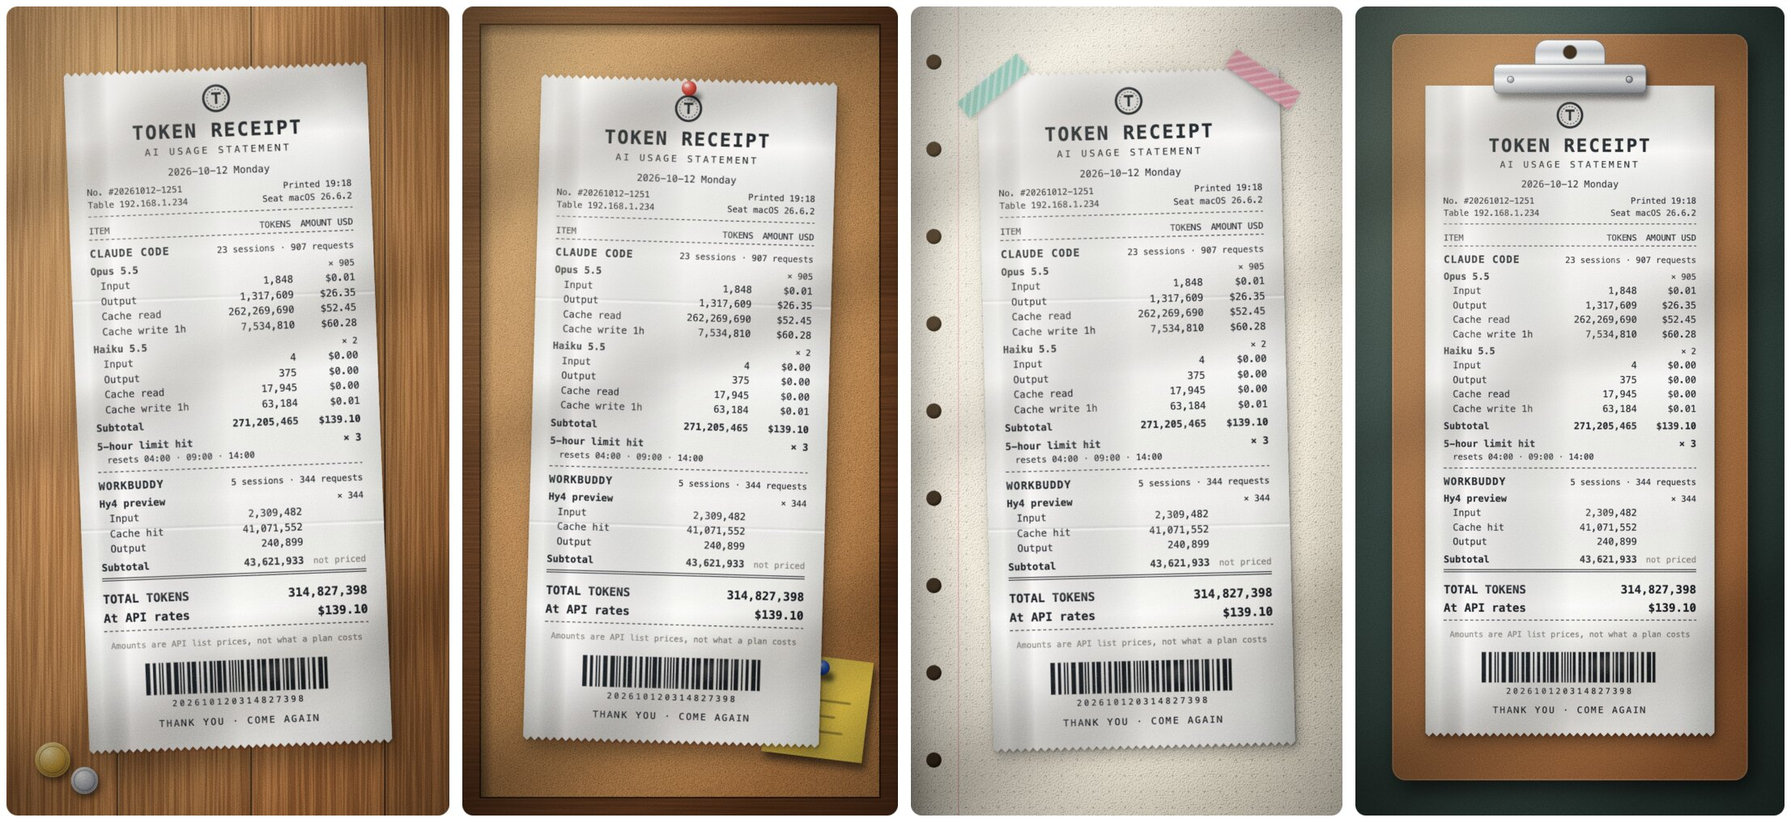
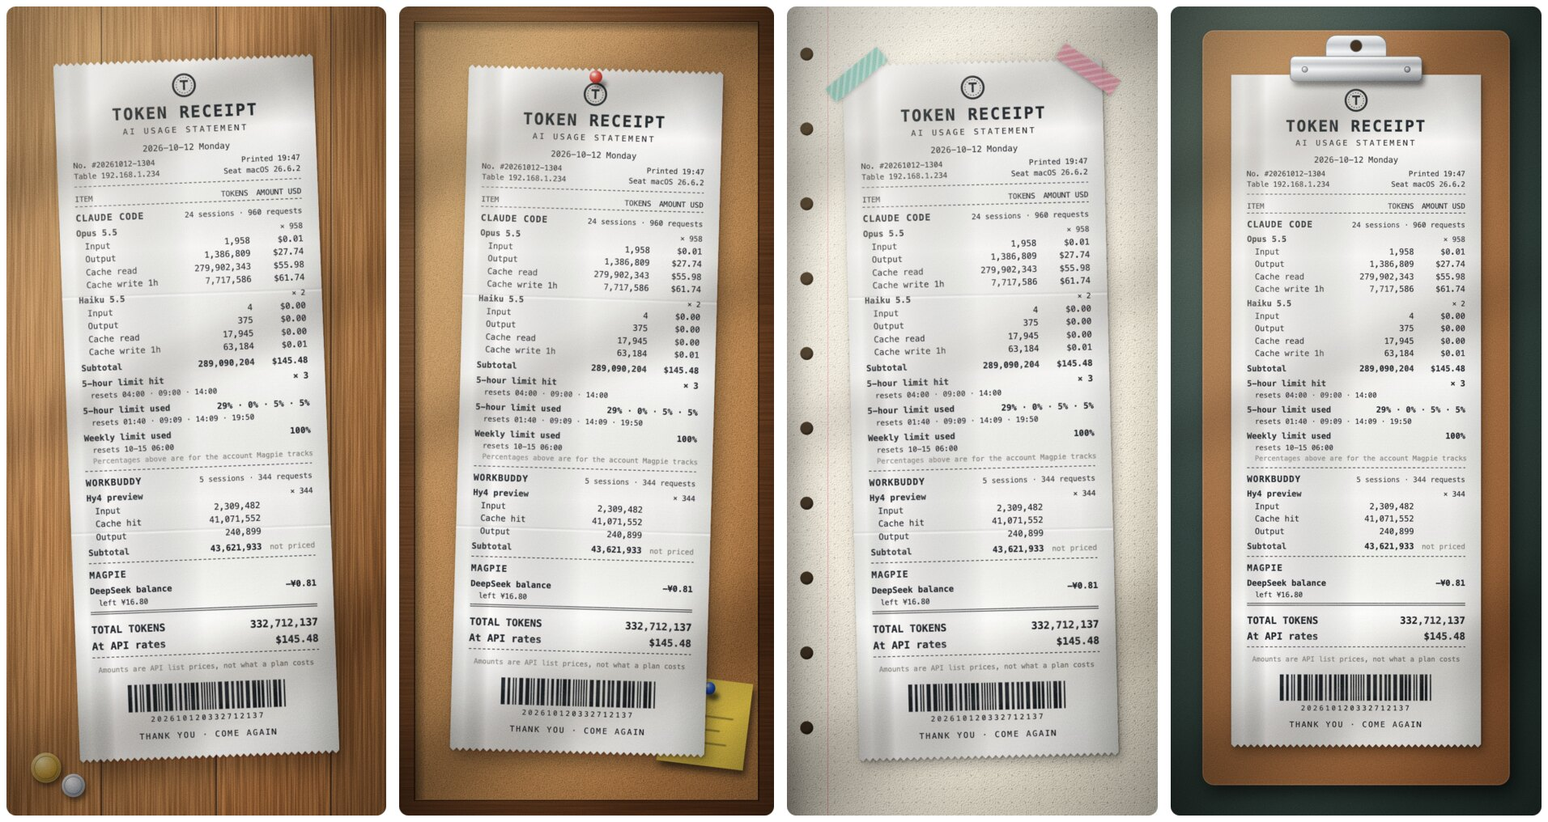
1.3.0：接入 Magpie 记录的额度百分比、账户余额变化和网关请求 MAT-268

diff --git a/main.js b/main.js
@@ -5,6 +5,8 @@
 //                    同一条回复会写成好几行，按 message.id + requestId 去重
 //     · Codex：~/.codex/sessions（和同级的 archived_sessions）下的 rollout-*.jsonl，取 token_count 事件里的累计值，逐条相减
 //     · WorkBuddy：~/.workbuddy/projects 下的 *.jsonl，取每次请求的 providerData.rawUsage
+//     · Magpie（可选）：~/.config/magpie 下的 usage.jsonl（经它网关转发的请求，已经直接读的三家跳过）、
+//                    quota-history.json（各家额度的剩余百分比）、balance-history.json（账户余额），有就加上，没有就不加
 //   金额：Claude 和 Codex 按 API 标价折算（订阅用户并非实付），价目表在设置里可改；WorkBuddy 只列 token
 //   额度：Claude 的会话记录里有「额度用满」的提示和重置时间，Codex 的记录里有额度已用百分比，都印在各自那一栏
 //   桌号 / 餐位：小票上印本机的局域网 IP 和系统版本（从系统直接读，不联网），设置里可以关
@@ -47,6 +49,7 @@ const DEFAULT_SETTINGS = {
 	claudeDir: "~/.claude/projects",
 	codexDir: "~/.codex/sessions",
 	workbuddyDir: "~/.workbuddy/projects",
+	magpieDir: "~/.config/magpie",
 	title: "",
 	language: "auto",
 	scene: "printer",
@@ -71,7 +74,9 @@ const I18N = {
 		limits: { five_hour: "5 小时额度用满", seven_day: "周额度用满", other: "额度用满" },
 		resets: "重置",
 		total: "合计 TOKEN", apiAt: "API 折算", table: "桌号", seat: "餐位",
-		window: (min) => (min === 300 ? "5 小时额度" : min === 10080 ? "周额度" : min === 43200 ? "月额度" : `${Math.round(min / 1440)} 天额度`) + "已用",
+		window: (min, name) => (min === 300 ? "5 小时额度" : min === 10080 ? "周额度" : min === 43200 ? "月额度" : min ? `${Math.round(min / 1440)} 天额度` : `${name || "额度"} `) + "已用",
+		viaMagpie: "以上百分比是 Magpie 盯的那个账号的", balance: "余额", left: "还剩",
+		sMagpie: ["Magpie 目录", "Magpie 的配置目录。有的话，小票会加上它记的额度百分比、账户余额变化和经它网关转发的请求；目录不存在就什么都不加。"],
 		scenes: { printer: "打印机出纸", desk: "木桌", cork: "软木板", tape: "手账胶带", clip: "账单夹板", plain: "纯净" },
 		saveSvg: "存成动画 SVG 放进库里", replay: "重放入场动效", zoom: "点一下放大看（会存成图片，用图片查看器打开）",
 		note: "金额按 API 标价折算，订阅用户并非实付",
@@ -107,7 +112,9 @@ const I18N = {
 		limits: { five_hour: "5-hour limit hit", seven_day: "Weekly limit hit", other: "Usage limit hit" },
 		resets: "resets",
 		total: "TOTAL TOKENS", apiAt: "At API rates", table: "Table", seat: "Seat",
-		window: (min) => (min === 300 ? "5-hour limit" : min === 10080 ? "Weekly limit" : min === 43200 ? "Monthly limit" : `${Math.round(min / 1440)}-day limit`) + " used",
+		window: (min, name) => (min === 300 ? "5-hour limit" : min === 10080 ? "Weekly limit" : min === 43200 ? "Monthly limit" : min ? `${Math.round(min / 1440)}-day limit` : name || "Limit") + " used",
+		viaMagpie: "Percentages above are for the account Magpie tracks", balance: "balance", left: "left",
+		sMagpie: ["Magpie folder", "Magpie's config folder. When it exists, the receipt adds the limit percentages, balance changes and gateway requests Magpie has recorded. Nothing is added when the folder is missing."],
 		scenes: { printer: "Thermal printer", desk: "Wooden desk", cork: "Cork board", tape: "Notebook and tape", clip: "Clipboard", plain: "Plain" },
 		saveSvg: "Save as animated SVG in the vault", replay: "Replay the entrance", zoom: "Click to enlarge (saves the image and opens it in the image viewer)",
 		note: "Amounts are API list prices, not what a plan costs",
@@ -281,6 +288,89 @@ function codexParser() {
 	};
 }
 
+// Magpie 网关转发的请求。Claude Code、Codex、WorkBuddy 自己的记录已经直接读了，这三家走网关的请求跳过，免得算两遍
+const MAGPIE_DIRECT = new Set(["claude", "claude-code", "codex", "workbuddy", "codebuddy"]);
+
+function parseMagpieLine(line) {
+	let d;
+	try { d = JSON.parse(line); } catch (e) { return null; }
+	if (!d || !d.t || MAGPIE_DIRECT.has(d.agent) || d.status >= 400) return null;
+	const t = Date.parse(d.t);
+	if (!t) return null;
+	return {
+		t,
+		key: d.route_id ? "magpie|" + d.route_id : null,
+		sid: d.session || d.agent || "",
+		model: d.served || d.model || "unknown",
+		in: d.in || 0,
+		read: d.cache_read || 0,
+		out: d.out || 0,
+	};
+}
+
+async function readJson(file) {
+	try { return JSON.parse(await fs.promises.readFile(file, "utf8")); } catch (e) { return null; }
+}
+
+// Magpie 隔一阵记一次各家额度还剩百分之几、账户余额还有多少。取这一天里的采样：
+//   额度：同一个窗口（重置时间相同，差几分钟也算同一个）只留最后一次采样
+//   余额：把这一天里每次减少的量加起来，充值不算
+async function magpieExtras(dir, date) {
+	const start = date.getTime(), end = start + DAY;
+	const out = { quota: {}, balances: [] };
+	if (!dir) return out;
+	const [hist, bal, now] = await Promise.all(["quota-history.json", "balance-history.json", "quotas.json"].map((f) => readJson(path.join(dir, f))));
+	const names = {}, symbols = {};
+	for (const [k, v] of Object.entries(now || {})) {
+		const p = k.split("/")[0], q = (v && v.quota) || {};
+		if (q.name) names[p] = q.name;
+		const m = typeof q.balance === "string" && q.balance.match(/^[^\d-]+/);
+		if (m) symbols[p] = m[0].trim();
+	}
+	for (const [k, wins] of Object.entries(hist || {})) {
+		const p = k.split("|")[0];
+		for (const [name, samples] of Object.entries(wins || {})) {
+			const inst = new Map();
+			let first = null, last = null;
+			for (const s of samples || []) {
+				const at = Date.parse(s.at);
+				if (!(at >= start && at < end) || typeof s.left !== "number") continue;
+				if (first == null) first = s.left;
+				last = s.left;
+				const r = s.resetsAt ? Date.parse(s.resetsAt) : 0;
+				inst.set(r ? Math.round(r / 600000) : 0, { at, used: 100 - s.left, resetsAt: r });
+			}
+			// 没有重置时间的采样是「这个窗口还没开始」，有别的窗口时不用它
+			if (inst.size > 1) inst.delete(0);
+			if (!inst.size) continue;
+			const m = name.match(/^(\d+)\s*(hour|day)/i);
+			(out.quota[p] = out.quota[p] || []).push({
+				minutes: m ? Number(m[1]) * (m[2].toLowerCase() === "hour" ? 60 : 1440) : 0,
+				name,
+				provider: names[p] || p,
+				list: [...inst.values()].sort((a, b) => a.at - b.at),
+				changed: first !== last,
+				magpie: true,
+			});
+		}
+	}
+	for (const [k, samples] of Object.entries(bal || {})) {
+		const p = k.split("|")[0];
+		let prev = null, spent = 0, left = null;
+		for (const s of samples || []) {
+			const at = Date.parse(s.at);
+			if (!(at < end) || typeof s.amount !== "number") continue;
+			if (at >= start) {
+				if (prev != null && s.amount < prev) spent += prev - s.amount;
+				left = s.amount;
+			}
+			prev = s.amount;
+		}
+		if (spent > 0.004) out.balances.push({ name: names[p] || p, symbol: symbols[p] || "", spent, left });
+	}
+	return out;
+}
+
 // 按文件的修改时间和大小缓存解析结果；某一天的账只可能在「那天 0 点之后还改过」的文件里
 class Ledger {
 	constructor() {
@@ -292,21 +382,34 @@ class Ledger {
 		for (const dir of dirs) await walk(expand(dir), all);
 		const out = [];
 		for (const f of all) {
-			if (f.mtimeMs < since) continue;
-			let c = this.cache.get(f.file);
-			if (!c || c.mtimeMs !== f.mtimeMs || c.size !== f.size) {
-				const rows = [];
-				const parse = makeParser();
-				await eachLine(f.file, (line) => {
-					const r = parse(line);
-					if (r) rows.push(r);
-				});
-				c = { mtimeMs: f.mtimeMs, size: f.size, rows };
-				this.cache.set(f.file, c);
-			}
-			out.push(c.rows);
+			if (f.mtimeMs >= since) out.push(await this.parse(f, makeParser));
 		}
 		return out;
+	}
+
+	async parse(f, makeParser) {
+		let c = this.cache.get(f.file);
+		if (!c || c.mtimeMs !== f.mtimeMs || c.size !== f.size) {
+			const rows = [];
+			const parse = makeParser();
+			await eachLine(f.file, (line) => {
+				const r = parse(line);
+				if (r) rows.push(r);
+			});
+			c = { mtimeMs: f.mtimeMs, size: f.size, rows };
+			this.cache.set(f.file, c);
+		}
+		return c.rows;
+	}
+
+	// 单独一个文件（Magpie 的 usage.jsonl），不存在就当没有
+	async file(file, makeParser) {
+		try {
+			const st = await fs.promises.stat(file);
+			return [await this.parse({ file, mtimeMs: st.mtimeMs, size: st.size }, makeParser)];
+		} catch (e) {
+			return [];
+		}
 	}
 
 	async day(date, settings) {
@@ -315,12 +418,15 @@ class Ledger {
 		const codexDirs = [settings.codexDir];
 		const cd = expand(settings.codexDir).replace(/\/+$/, "");
 		if (path.basename(cd) === "sessions") codexDirs.push(path.join(path.dirname(cd), "archived_sessions"));
-		const [claude, codex, wb] = await Promise.all([
+		const mdir = settings.magpieDir ? expand(settings.magpieDir) : "";
+		const [claude, codex, wb, magpie, extras] = await Promise.all([
 			this.rows([settings.claudeDir], () => parseClaudeLine, start),
 			this.rows(codexDirs, codexParser, start),
 			this.rows([settings.workbuddyDir], () => parseWorkBuddyLine, start),
+			mdir ? this.file(path.join(mdir, "usage.jsonl"), () => parseMagpieLine) : [],
+			magpieExtras(mdir, date),
 		]);
-		return summarize(date, { claude, codex, wb }, settings.prices);
+		return summarize(date, { claude, codex, wb, magpie }, settings.prices, extras);
 	}
 }
 
@@ -365,10 +471,11 @@ const LINE_ORDER = {
 	claude: ["input", "output", "read", "write5", "write1h"],
 	codex: ["input", "read", "output"],
 	wb: ["input", "hit", "output"],
+	magpie: ["input", "read", "output"],
 };
 
 function newSection(id, name, priced) {
-	return { id, name, priced, models: new Map(), sids: new Set(), limits: [], quota: [], sessions: 0, requests: 0, tokens: 0, cost: 0, unpriced: false };
+	return { id, name, priced, models: new Map(), sids: new Set(), limits: [], quota: [], extras: [], sessions: 0, requests: 0, tokens: 0, cost: 0, unpriced: false };
 }
 
 // parts：[明细的名字, token 数, 每个 token 多少美元]
@@ -403,11 +510,11 @@ function finish(sec) {
 	sec.models = models;
 	sec.sessions = sec.sids.size;
 	delete sec.sids;
-	sec.shown = models.length > 0 || sec.limits.length > 0 || sec.quota.length > 0;
+	sec.shown = models.length > 0 || sec.limits.length > 0 || sec.quota.length > 0 || sec.extras.length > 0;
 	return sec;
 }
 
-function summarize(date, files, prices) {
+function summarize(date, files, prices, magpie) {
 	const start = date.getTime();
 	const M = 1e6;
 
@@ -450,14 +557,37 @@ function summarize(date, files, prices) {
 			["output", r.out, rate(p && p.out)],
 		]);
 	}
-	if (latest) codex.quota = latest.quota;
+	if (latest) codex.quota = latest.quota.map((q) => ({ minutes: q.minutes, list: [{ used: q.used, resetsAt: q.resetsAt }] }));
 
 	const wb = newSection("wb", "WORKBUDDY", false);
 	for (const r of pick(files.wb || [], start)) {
 		addRow(wb, r, r.name || r.model, false, [["input", r.in, 0], ["hit", r.hit, 0], ["output", r.out, 0]]);
 	}
 
-	const sections = [finish(claude), finish(codex), finish(wb)];
+	const mg = newSection("magpie", "MAGPIE", true);
+	for (const r of pick(files.magpie || [], start)) {
+		const p = priceOf(r.model, prices);
+		const rate = (v) => (p ? v / M : 0);
+		addRow(mg, r, r.model, !!p, [
+			["input", r.in, rate(p && p.in)],
+			["read", r.read, rate(p && (p.read != null ? p.read : p.in * 0.1))],
+			["output", r.out, rate(p && p.out)],
+		]);
+	}
+	// Magpie 记的额度：有自己那一栏的（当天用过、记录里又没带百分比）印在那一栏；别家的只在当天有变化时印在 Magpie 这一栏
+	const own = { claude, codex, workbuddy: wb, "workbuddy-ai": wb };
+	for (const [p, list] of Object.entries((magpie && magpie.quota) || {})) {
+		const sec = own[p];
+		if (sec) {
+			// 积分这类不按时间重置的额度，当天没变化就不印
+			if (sec.models.size && !sec.quota.length) sec.quota = list.filter((q) => q.minutes || q.changed);
+		} else {
+			for (const q of list) if (q.changed) mg.quota.push(Object.assign({ label: q.provider }, q));
+		}
+	}
+	mg.extras = (magpie && magpie.balances) || [];
+
+	const sections = [finish(claude), finish(codex), finish(wb), finish(mg)];
 	const sum = { date, sections, tokens: 0, cost: 0, requests: 0, unpriced: false };
 	for (const s of sections) {
 		sum.tokens += s.tokens;
@@ -569,7 +699,7 @@ function buildPaper(sum, opt) {
 		if (i) { rule(); y -= 6; }
 		y += LH + 2;
 		text(xL, s.name, { bold: true, size: 13.5, ls: 1 });
-		text(xR, T.sessions(num(s.sessions), num(s.requests)), { anchor: "end", size: 11 });
+		if (s.models.length) text(xR, T.sessions(num(s.sessions), num(s.requests)), { anchor: "end", size: 11 });
 		for (const m of s.models) {
 			y += LH + 3;
 			text(xL, m.label, { bold: true });
@@ -580,7 +710,7 @@ function buildPaper(sum, opt) {
 			y += 4;
 			row(T.subtotal, num(s.tokens), s.priced ? usd(s.cost) : T.unpricedTag, { indent: false, bold: true, amountDim: !s.priced });
 		}
-		// 订阅额度：当天用满了几次（Claude），或者当天最后一次请求时已经用掉百分之几（Codex）
+		// 订阅额度：当天用满了几次（Claude），或者已经用掉百分之几（Codex 的记录里有，别家靠 Magpie 的采样）
 		for (const l of s.limits) {
 			y += 4;
 			row(T.limits[l.type], null, `× ${l.hits.length}`, { indent: false, bold: true });
@@ -592,11 +722,24 @@ function buildPaper(sum, opt) {
 		}
 		for (const q of s.quota) {
 			y += 4;
-			row(T.window(q.minutes), null, `${Math.round(q.used)}%`, { indent: false, bold: true });
-			if (q.resetsAt) {
+			const list = q.list.slice(-4);
+			row((q.label ? q.label + " " : "") + T.window(q.minutes, q.name), null, list.map((x) => `${Math.round(x.used)}%`).join(" · "), { indent: false, bold: true });
+			const at = list.map((x) => (x.resetsAt ? resetLabel(x, sum.date) : "")).filter(Boolean);
+			if (at.length) {
 				y += LH - 2;
-				text(xItem, `${T.resets} ${resetLabel(q, sum.date)}`, { size: 11 });
+				text(xItem, `${T.resets} ${at.join(" · ")}`, { size: 11 });
 			}
+		}
+		if (s.id !== "magpie" && s.quota.some((q) => q.magpie)) {
+			y += LH - 3;
+			text(xItem, T.viaMagpie, { size: 10.5, dim: true });
+		}
+		// 账户余额当天花掉多少
+		for (const e of s.extras) {
+			y += 4;
+			row(`${e.name} ${T.balance}`, null, `-${e.symbol}${e.spent.toFixed(2)}`, { indent: false, bold: true });
+			y += LH - 2;
+			text(xItem, `${T.left} ${e.symbol}${e.left.toFixed(2)}`, { size: 11 });
 		}
 	});
 	rule("double");
@@ -1209,6 +1352,7 @@ class TokenReceiptSettingTab extends PluginSettingTab {
 		textSetting(T.sClaude, "claudeDir", DEFAULT_SETTINGS.claudeDir);
 		textSetting(T.sCodex, "codexDir", DEFAULT_SETTINGS.codexDir);
 		textSetting(T.sWb, "workbuddyDir", DEFAULT_SETTINGS.workbuddyDir);
+		textSetting(T.sMagpie, "magpieDir", DEFAULT_SETTINGS.magpieDir);
 		textSetting(T.sFolder, "exportFolder", T.folderHint);
 
 		new Setting(containerEl).setName(T.sFormat[0]).setDesc(T.sFormat[1]).addDropdown((d) => d
@@ -1243,4 +1387,4 @@ class TokenReceiptSettingTab extends PluginSettingTab {
 }
 
 module.exports = TokenReceiptPlugin;
-module.exports.core = { Ledger, summarize, renderReceipt, parseClaudeLine, parseWorkBuddyLine, codexParser, hostInfo, dayStart, DEFAULT_SETTINGS, SCENE_ORDER };
+module.exports.core = { Ledger, summarize, renderReceipt, parseClaudeLine, parseWorkBuddyLine, codexParser, parseMagpieLine, magpieExtras, hostInfo, dayStart, DEFAULT_SETTINGS, SCENE_ORDER };

diff --git a/README.md b/README.md
@@ -16,6 +16,7 @@ That is the author's own day, as an animated SVG saved straight from the plugin.
 - **Codex**, one block per model: input, cached input and output tokens, with costs for the models in the price table.
 - **WorkBuddy**, one block per model: input, cache hit and output tokens. WorkBuddy has no public per-token price, so this block shows tokens only.
 - **Plan limits.** When Claude Code tells you that you hit your 5-hour or weekly limit, it writes that message and the reset time into the session log; the receipt lists how many times that happened and when each limit resets. Codex logs the share of your limit you have used, so its block shows that percentage as of the last request of the day.
+- **Magpie**, if you use it: the receipt adds what Magpie has recorded. That is the share of your plan limits used through the day, how far an account balance dropped, and the requests that went through its gateway. The percentages are for the account Magpie tracks, which may be only one of the accounts you use.
 - **Table and seat.** The way a restaurant bill carries a table number, the line under the receipt number gives this computer's local network address as the table and its system version as the seat.
 - **Totals**, a barcode that encodes nothing, and a thank-you.
 
@@ -55,13 +56,13 @@ Commands, none with a default hotkey:
 
 - **Receipt title**, **language** (the interface and the receipt follow Obsidian's language: Chinese for Chinese, English otherwise) and **scene**.
 - **Table and seat**, on or off.
-- **Session folders** for Claude Code, Codex and WorkBuddy, if yours are not in the default place.
+- **Session folders** for Claude Code, Codex and WorkBuddy, and the Magpie folder, if yours are not in the default place.
 - **Image format, folder and resolution.** WebP is the default because textured scenes are several megabytes as PNG.
 - **Price table**, as JSON, in US dollars per million tokens. Prices change and new models appear; edit the table to keep up. A model that is not in the table shows tokens without a cost. The Claude prices come from Anthropic's published rates; the OpenAI ones were taken from third-party price listings, so check them against your bill.
 
 ## Privacy and file access
 
-- **Files outside your vault.** The plugin reads, and never writes, the session logs in `~/.claude/projects` (Claude Code), `~/.codex/sessions` and `~/.codex/archived_sessions` (Codex) and `~/.workbuddy/projects` (WorkBuddy). That is the only place the token counts exist, which is why the plugin needs them. It keeps only the token counts, model names, timestamps, session ids and limit information. Your prompts and the replies are never stored, shown or sent anywhere.
+- **Files outside your vault.** The plugin reads, and never writes, the session logs in `~/.claude/projects` (Claude Code), `~/.codex/sessions` and `~/.codex/archived_sessions` (Codex) and `~/.workbuddy/projects` (WorkBuddy). When `~/.config/magpie` exists it also reads four files there: `usage.jsonl`, `quota-history.json`, `balance-history.json` and `quotas.json`. Those are the only places the numbers exist, which is why the plugin needs them. It keeps only the token counts, model names, timestamps, session ids, limit information and balances. Your prompts and the replies are never stored, shown or sent anywhere.
 - **Local address and system version.** The table and seat line shows this computer's local network address (such as 192.168.1.23) and its system version, both read from the operating system. The line appears on every image you save or copy, so turn it off in the settings if you share receipts and would rather leave it out.
 - **No network.** Nothing is sent anywhere. Costs are calculated from the price table in the settings.
 - **Desktop only**, because it reads files through Node.js.
@@ -70,7 +71,8 @@ Commands, none with a default hotkey:
 ## Limits of the numbers
 
 - Only what is in the local logs is counted. Chats on claude.ai and in the Claude desktop app's chat tab are not there, although they draw on the same plan limits.
-- For Claude the receipt can say that you hit a limit, not what percentage of it you used. That figure is not in the logs.
+- For Claude, the logs say that you hit a limit, not what percentage of it you used. The percentage appears only when Magpie has recorded it, and then for the one account Magpie tracks.
+- Requests that Claude Code, Codex or WorkBuddy send through the Magpie gateway are counted from their own logs, not a second time from Magpie's.
 - If you use more than one account on the same computer, their sessions are counted together.
 - Costs are estimates at API list prices. On a subscription you do not pay them.
 
@@ -112,6 +114,7 @@ Token 小票读取 Claude Code、Codex 和 WorkBuddy 存在本机的会话记录
 - **Codex**：每个模型一栏，列出输入、缓存读、输出的 token；价目表里有的模型会算出金额。
 - **WorkBuddy**：每个模型一栏，列出输入、缓存命中、输出的 token。WorkBuddy 没有公开的 token 单价，所以只列 token。
 - **订阅额度**：Claude Code 提示 5 小时额度或周额度用满时，会把这条提示和重置时间写进会话记录，小票列出当天用满了几次、各自几点重置。Codex 的记录里有额度已用的百分比，小票印的是当天最后一次请求时的数字。
+- **Magpie**（用了才有）：小票会加上 Magpie 记下来的东西，包括各家订阅额度在这一天里用掉的百分比、账户余额降了多少，以及经它网关转发的请求。百分比是 Magpie 盯的那个账号的，你要是有好几个账号，它可能只是其中一个。
 - **桌号和餐位**：像餐厅账单上的桌号那样，单号下面有一行：桌号是本机的局域网 IP，餐位是系统版本。
 - **合计**、一个扫不出东西的条形码，和一句谢谢惠顾。
 
@@ -151,13 +154,13 @@ Token 小票读取 Claude Code、Codex 和 WorkBuddy 存在本机的会话记录
 
 - **小票抬头**、**语言**（界面和小票跟 Obsidian 的语言走：中文界面用中文，其他用英文）和**呈现方式**。
 - **桌号和餐位**这一行印不印。
-- Claude Code、Codex 和 WorkBuddy 的**会话目录**，不在默认位置时改这里。
+- Claude Code、Codex 和 WorkBuddy 的**会话目录**，以及 Magpie 的目录，不在默认位置时改这里。
 - **图片格式、存放文件夹和清晰度**。默认存 WebP，因为带纹理的场景存成 PNG 要好几 MB。
 - **价目表**：JSON 格式，单位是美元 / 百万 token。价格会变，新模型会出，自己改表就行。不在表里的模型只列 token、不算金额。Claude 的价格来自 Anthropic 公布的标价；OpenAI 的几个取自第三方价目汇总，请对照自己的账单核对。
 
 ## 隐私和文件访问
 
-- **读取库外文件**：插件只读、不写 `~/.claude/projects`（Claude Code）、`~/.codex/sessions` 和 `~/.codex/archived_sessions`（Codex）、`~/.workbuddy/projects`（WorkBuddy）里的会话记录。token 用量只存在这些文件里，所以必须读它们。插件只留下 token 数、模型名、时间、会话编号和额度信息；你的提问和模型的回答不会被保存、显示或发送到任何地方。
+- **读取库外文件**：插件只读、不写 `~/.claude/projects`（Claude Code）、`~/.codex/sessions` 和 `~/.codex/archived_sessions`（Codex）、`~/.workbuddy/projects`（WorkBuddy）里的会话记录。`~/.config/magpie` 存在的话，还会读里面的四个文件：`usage.jsonl`、`quota-history.json`、`balance-history.json`、`quotas.json`。这些数字只存在这些文件里，所以必须读它们。插件只留下 token 数、模型名、时间、会话编号、额度信息和余额；你的提问和模型的回答不会被保存、显示或发送到任何地方。
 - **本机地址和系统版本**：桌号和餐位那一行印的是本机的局域网 IP（比如 192.168.1.23）和系统版本，都是从操作系统直接读的。存下来或复制出去的图片上都会带这一行，要把小票发给别人、又不想带这两样时，在设置里关掉。
 - **不联网**：不向任何地方发送数据，金额按设置里的价目表在本机计算。
 - **仅桌面端**：读文件用的是 Node.js。
@@ -166,7 +169,8 @@ Token 小票读取 Claude Code、Codex 和 WorkBuddy 存在本机的会话记录
 ## 数字的边界
 
 - 只统计本机记录里有的用量。claude.ai 网页版和 Claude 桌面版聊天标签的用量不在本机，但它们和 Claude Code 共用同一份订阅额度。
-- Claude 这边，小票能告诉你额度用满过，但算不出用了百分之几，这个比例没有写进记录。
+- Claude 这边，会话记录只写了额度用满过，没写用了百分之几。只有 Magpie 记过的时候小票才印百分比，而且是 Magpie 盯的那一个账号的。
+- Claude Code、Codex、WorkBuddy 走 Magpie 网关发出的请求，按它们自己的记录算，不会从 Magpie 那边再算一遍。
 - 同一台电脑上用了多个账号的话，它们的会话会合在一起统计。
 - 金额是按 API 标价折算的估算值，订阅用户并不实际支付这些钱。
 
